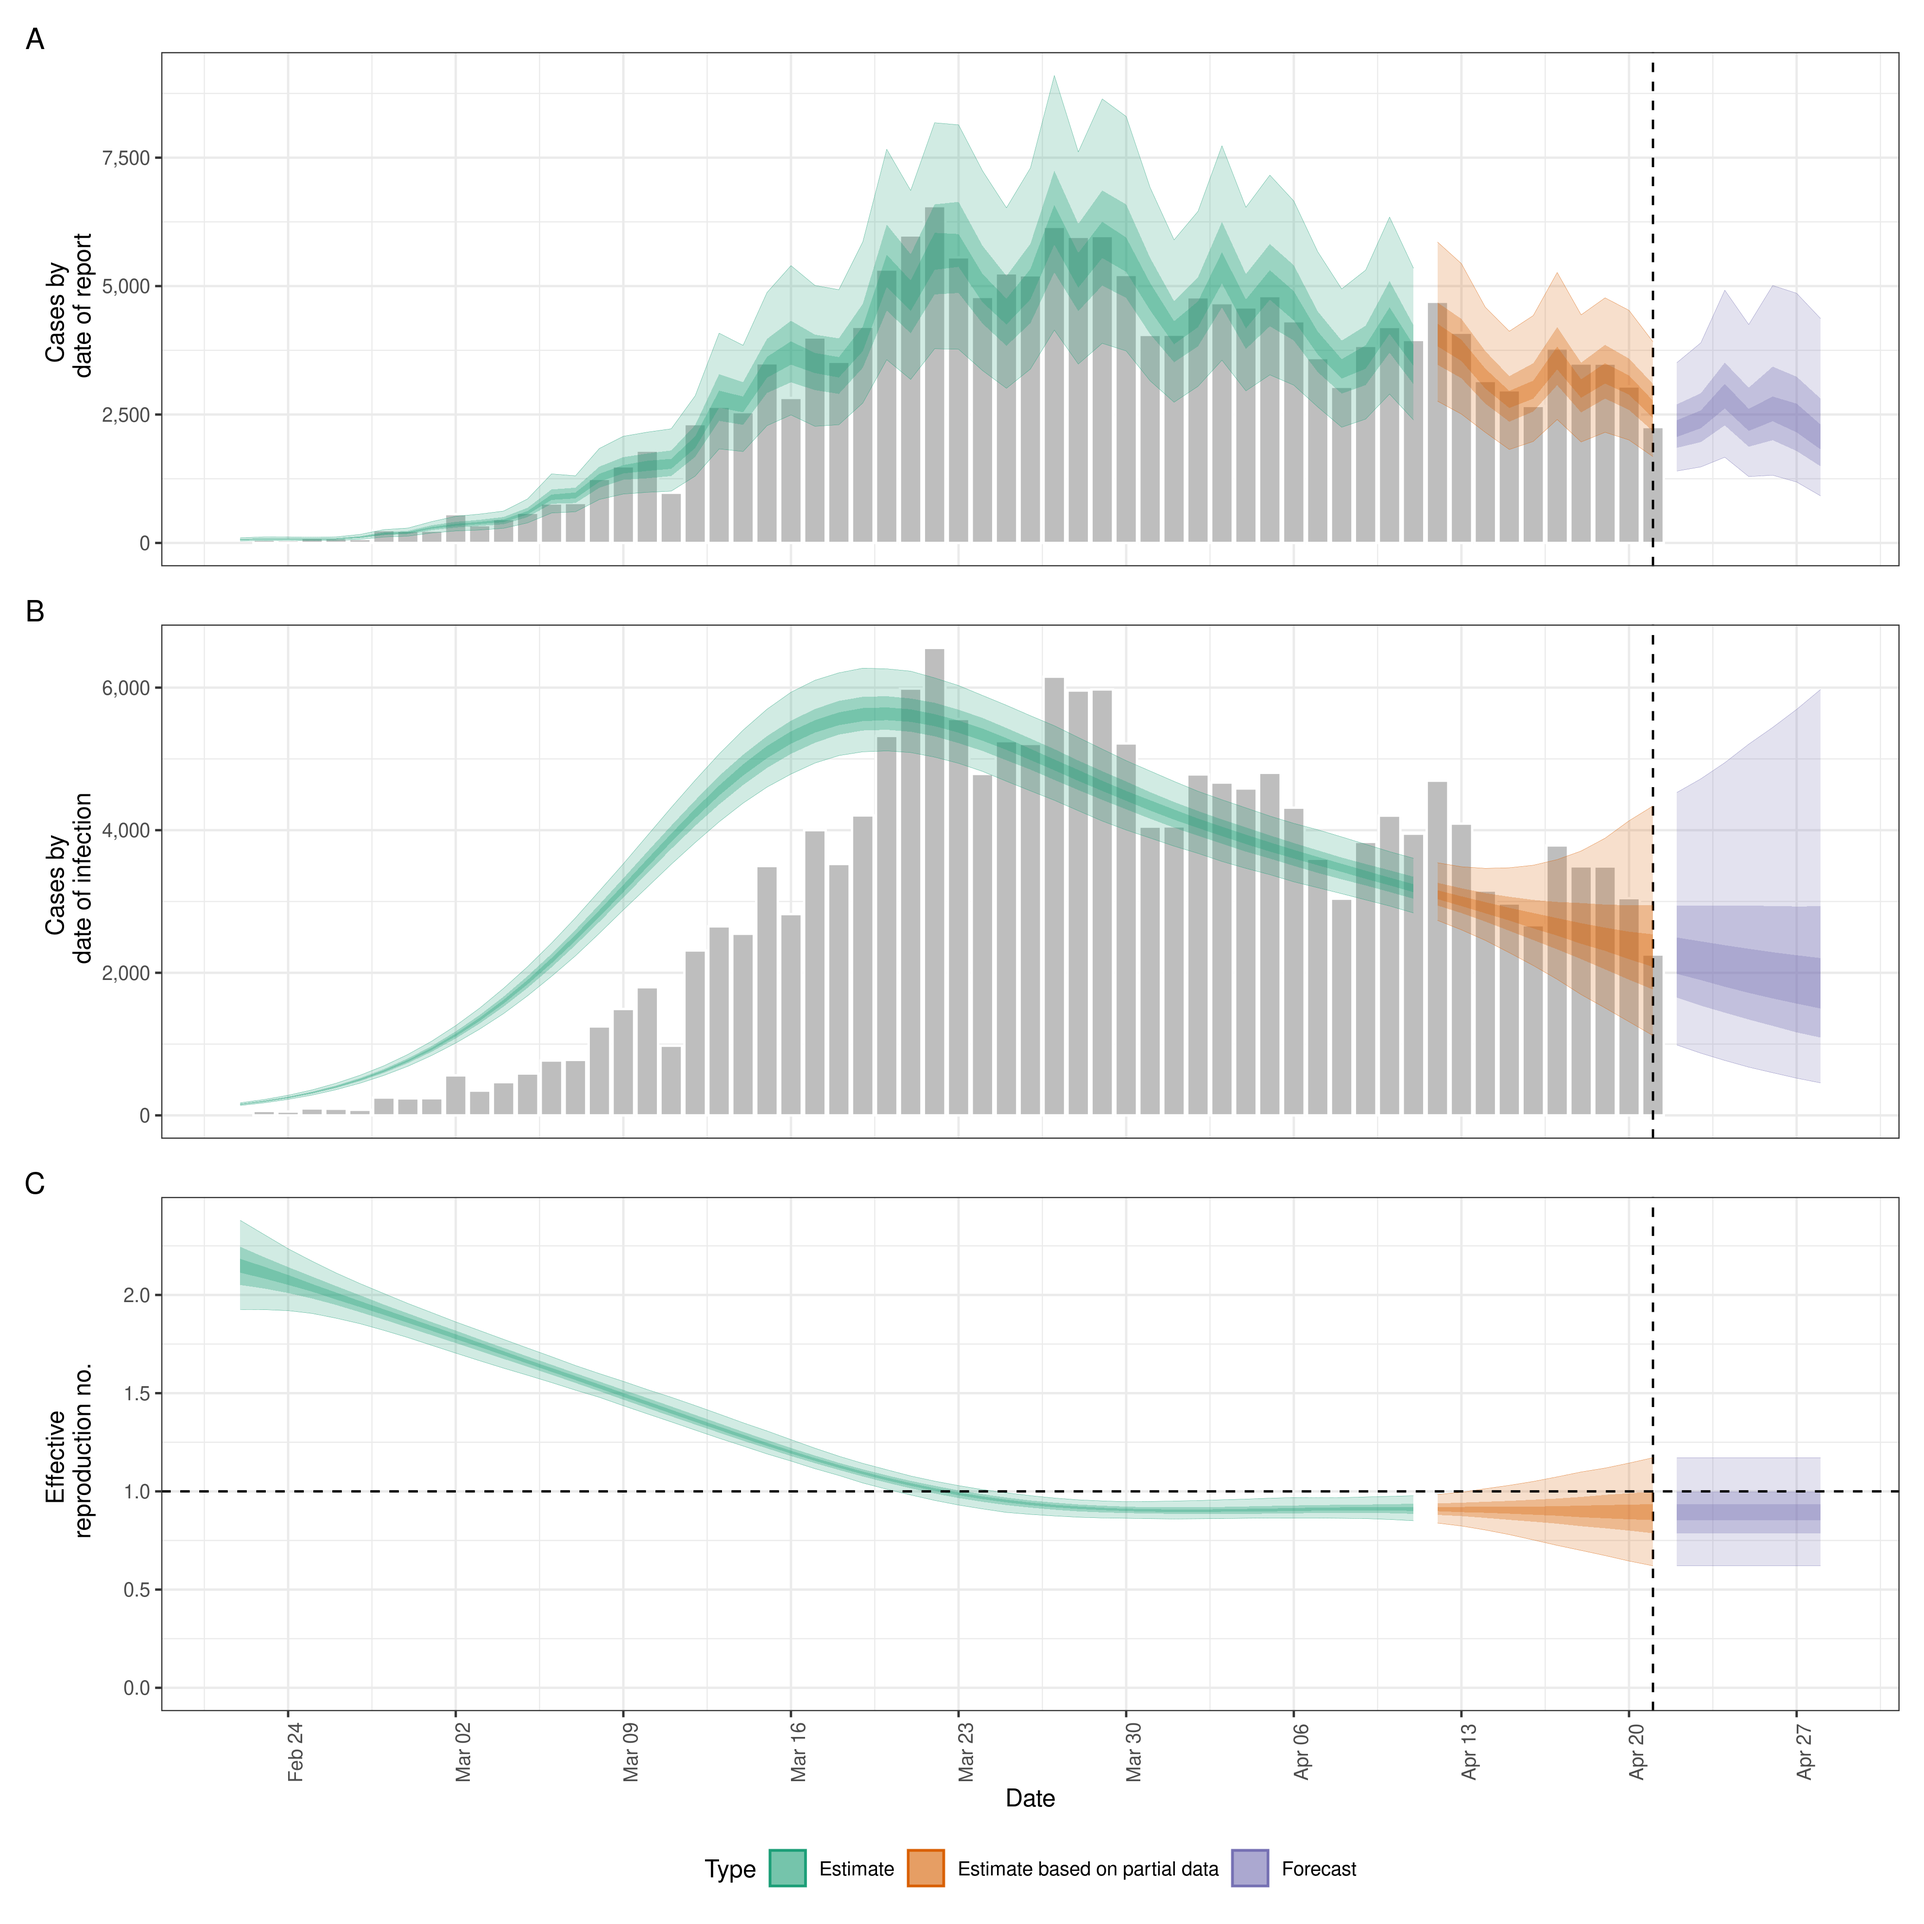
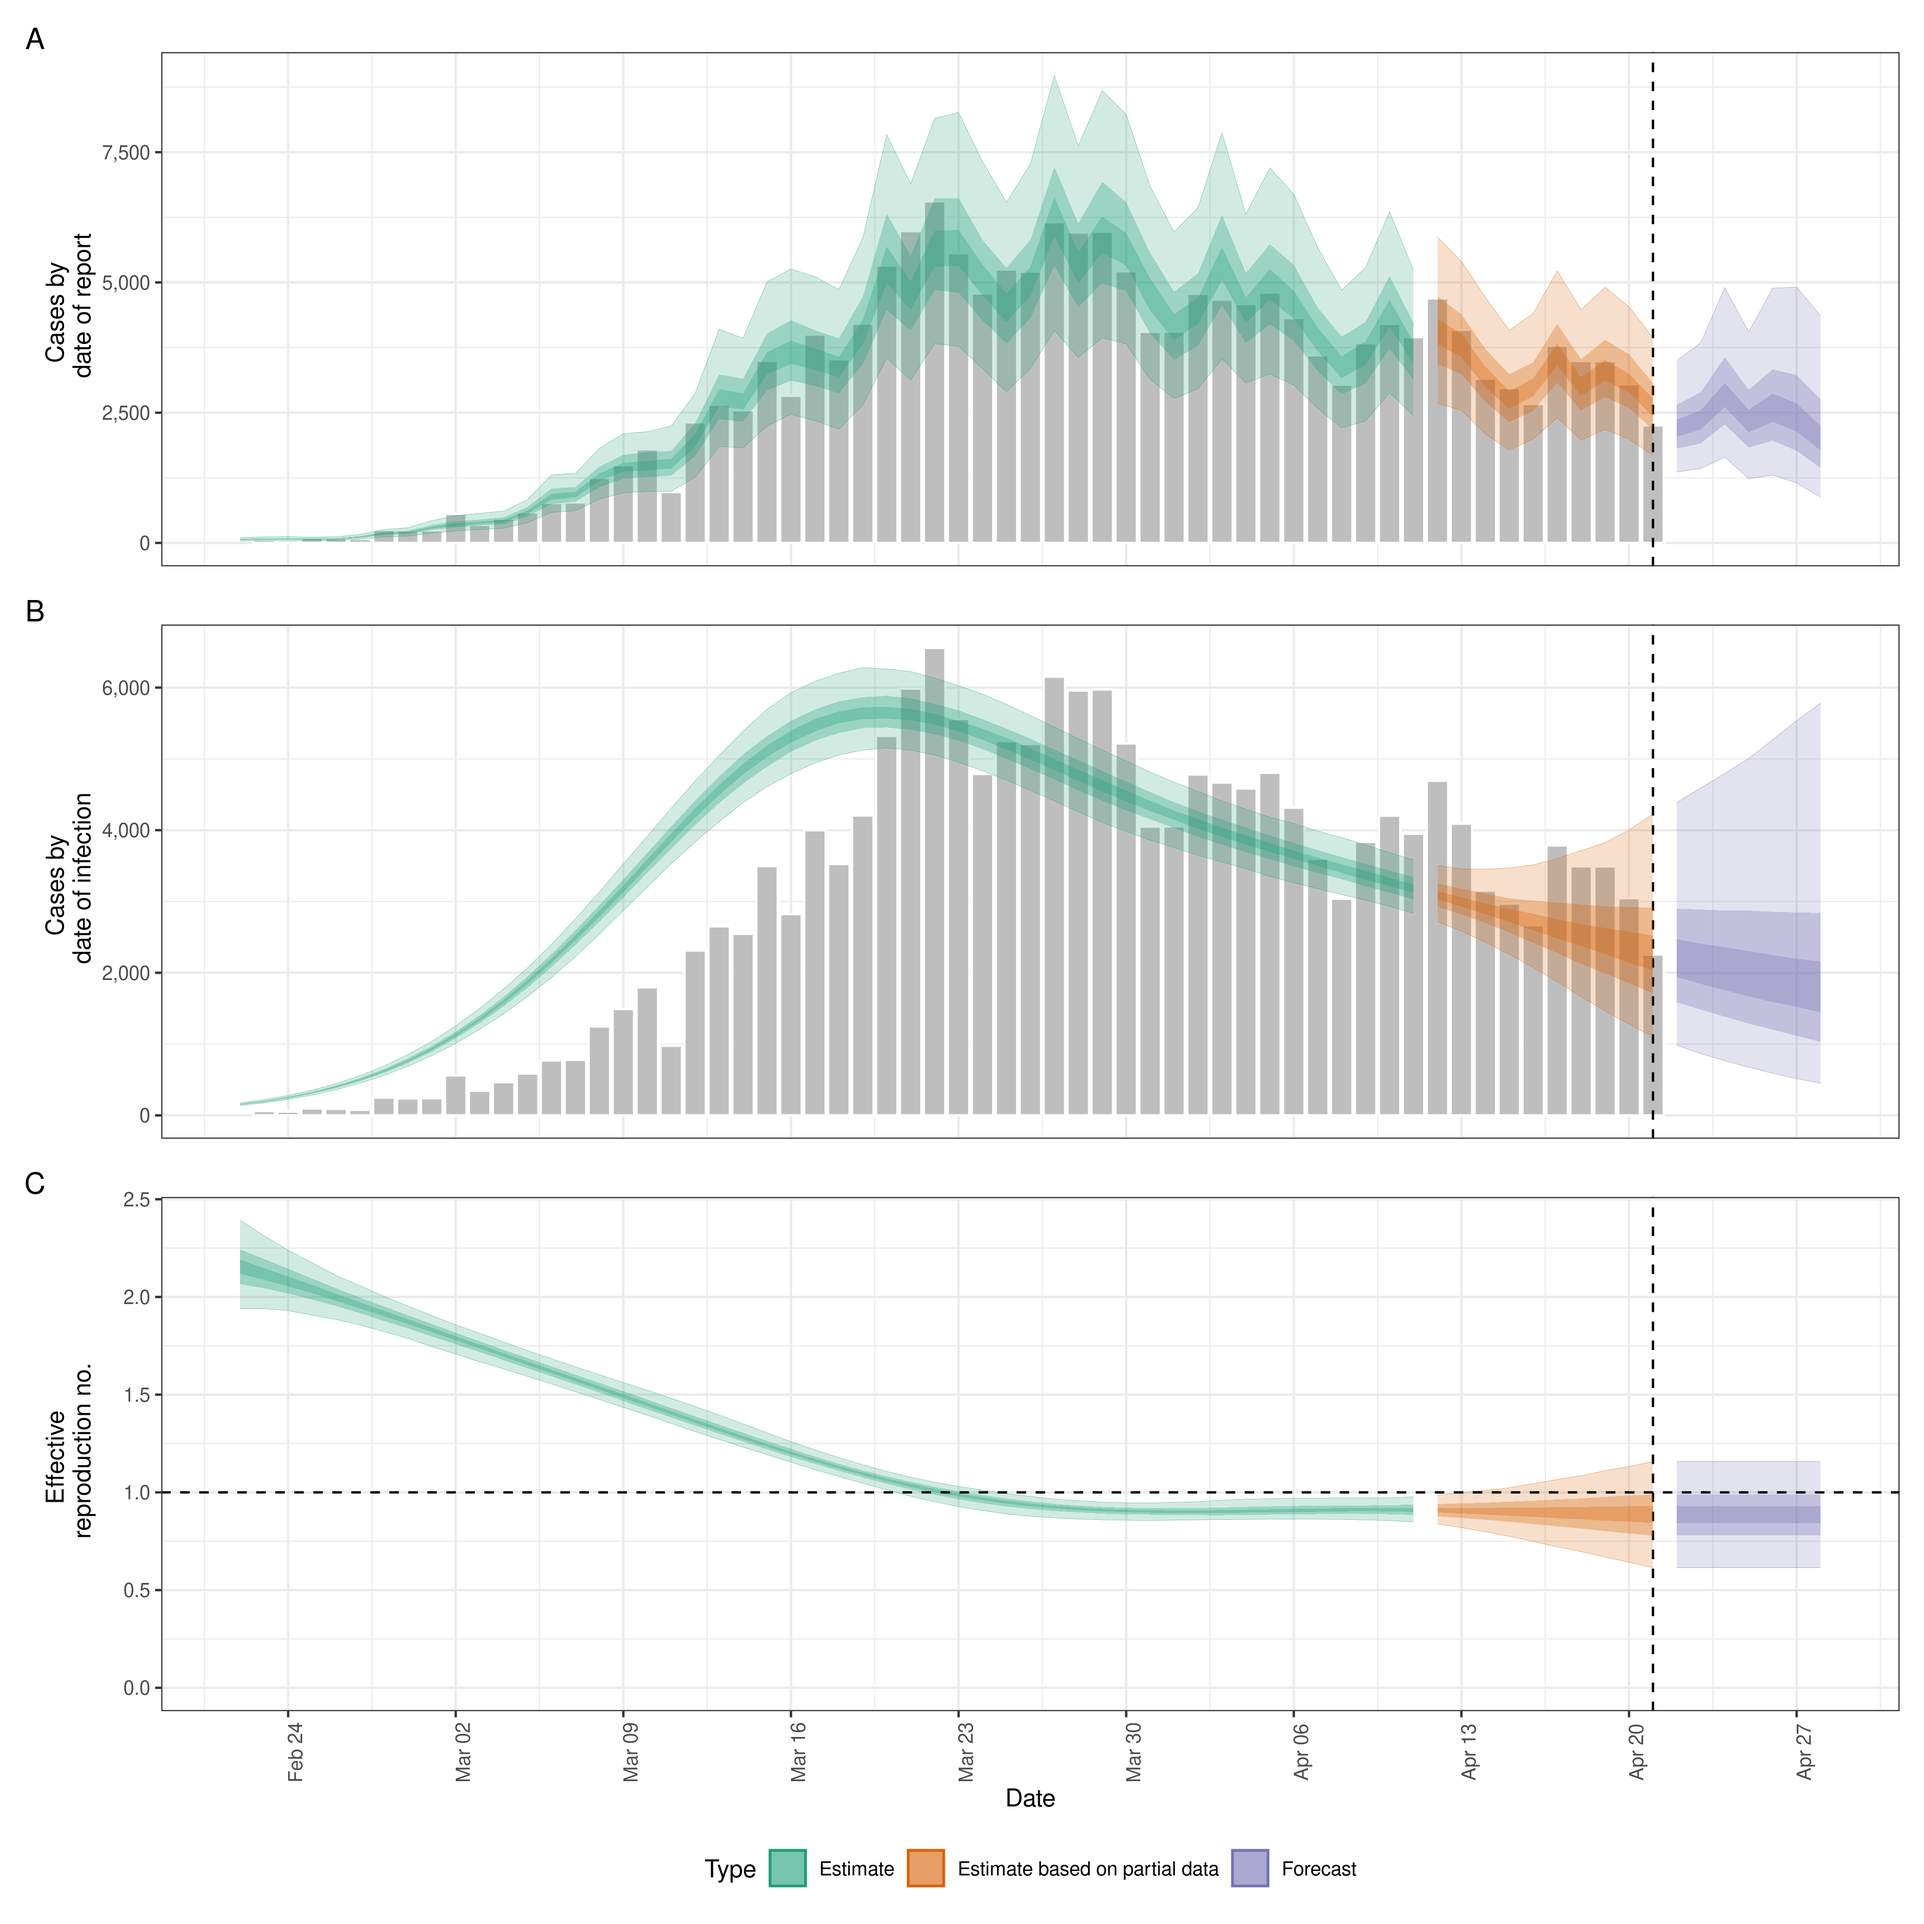
Automatic readme update

diff --git a/README.md b/README.md
@@ -243,13 +243,13 @@ parameters at the latest date partially supported by data.
 knitr::kable(summary(estimates))
 ```
 
-| measure                               | estimate              |
-|:--------------------------------------|:----------------------|
-| New confirmed cases by infection date | 2294 (1118 – 4339)    |
-| Expected change in daily cases        | Likely decreasing     |
-| Effective reproduction no.            | 0.89 (0.62 – 1.2)     |
-| Rate of growth                        | -0.025 (-0.1 – 0.038) |
-| Doubling/halving time (days)          | -27 (18 – -6.6)       |
+| measure                               | estimate               |
+|:--------------------------------------|:-----------------------|
+| New confirmed cases by infection date | 2257 (1103 – 4226)     |
+| Expected change in daily cases        | Likely decreasing      |
+| Effective reproduction no.            | 0.89 (0.61 – 1.2)      |
+| Rate of growth                        | -0.028 (-0.11 – 0.035) |
+| Doubling/halving time (days)          | -25 (20 – -6.5)        |
 
 Summarised parameter estimates can also easily be returned, either
 filtered for a single parameter or for all parameters.
@@ -257,19 +257,19 @@ filtered for a single parameter or for all parameters.
 ``` r
 head(summary(estimates, type = "parameters", params = "R"))
 #>          date variable strat     type   median     mean         sd lower_90
-#> 1: 2020-02-22        R    NA estimate 2.150510 2.151031 0.14119096 1.925555
-#> 2: 2020-02-23        R    NA estimate 2.113039 2.114405 0.11694511 1.925179
-#> 3: 2020-02-24        R    NA estimate 2.075144 2.076203 0.09706633 1.919932
-#> 4: 2020-02-25        R    NA estimate 2.035771 2.036649 0.08142775 1.905762
-#> 5: 2020-02-26        R    NA estimate 1.994923 1.996010 0.06978343 1.881665
-#> 6: 2020-02-27        R    NA estimate 1.951974 1.954575 0.06169721 1.853661
+#> 1: 2020-02-22        R    NA estimate 2.157075 2.158130 0.13780343 1.939378
+#> 2: 2020-02-23        R    NA estimate 2.118203 2.120258 0.11327513 1.939902
+#> 3: 2020-02-24        R    NA estimate 2.080266 2.080967 0.09395287 1.930158
+#> 4: 2020-02-25        R    NA estimate 2.040108 2.040461 0.07931071 1.906574
+#> 5: 2020-02-26        R    NA estimate 1.999733 1.998992 0.06861478 1.884677
+#> 6: 2020-02-27        R    NA estimate 1.957576 1.956843 0.06104775 1.856504
 #>    lower_50 lower_20 upper_20 upper_50 upper_90
-#> 1: 2.050750 2.113483 2.183631 2.245148 2.379931
-#> 2: 2.032817 2.083743 2.143829 2.192236 2.307371
-#> 3: 2.009735 2.051237 2.101651 2.141804 2.235092
-#> 4: 1.981902 2.016831 2.055957 2.093436 2.171809
-#> 5: 1.949209 1.976791 2.012477 2.045381 2.112014
-#> 6: 1.912331 1.938310 1.968822 1.998513 2.057857
+#> 1: 2.064872 2.119213 2.190467 2.242388 2.392104
+#> 2: 2.044301 2.088105 2.146766 2.194177 2.312177
+#> 3: 2.017630 2.053934 2.104694 2.144963 2.239380
+#> 4: 1.986598 2.019517 2.061337 2.093727 2.174363
+#> 5: 1.953712 1.980580 2.016398 2.043921 2.110641
+#> 6: 1.917320 1.941335 1.972276 1.997426 2.057059
 ```
 
 Reported cases are returned in a separate data frame in order to
@@ -278,19 +278,19 @@ streamline the reporting of forecasts and for model evaluation.
 ``` r
 head(summary(estimates, output = "estimated_reported_cases"))
 #>          date  type median     mean       sd lower_90 lower_50 lower_20
-#> 1: 2020-02-22 gp_rt     65  66.6800 18.39159       40       53       61
-#> 2: 2020-02-23 gp_rt     76  78.6355 21.87244       47       63       72
-#> 3: 2020-02-24 gp_rt     76  78.6180 21.21672       48       64       71
-#> 4: 2020-02-25 gp_rt     73  75.3050 20.23234       46       61       69
-#> 5: 2020-02-26 gp_rt     79  80.6290 21.44951       50       66       73
-#> 6: 2020-02-27 gp_rt    111 113.8485 29.33015       70       94      104
+#> 1: 2020-02-22 gp_rt     64  66.4585 18.53537    39.00       53       60
+#> 2: 2020-02-23 gp_rt     76  78.6990 21.22846    47.95       64       71
+#> 3: 2020-02-24 gp_rt     76  78.6600 21.61141    48.00       63       71
+#> 4: 2020-02-25 gp_rt     73  75.3330 20.61714    45.00       61       68
+#> 5: 2020-02-26 gp_rt     78  79.8925 22.08329    47.00       65       73
+#> 6: 2020-02-27 gp_rt    111 113.7815 28.68512    71.00       94      104
 #>    upper_20 upper_50 upper_90
-#> 1:       70       78   100.05
-#> 2:       82       92   118.00
-#> 3:       81       91   117.00
-#> 4:       78       88   111.00
-#> 5:       84       94   118.00
-#> 6:      118      132   166.00
+#> 1:       70       78   100.00
+#> 2:       82       91   117.00
+#> 3:       82       91   119.05
+#> 4:       78       88   113.00
+#> 5:       83       93   118.00
+#> 6:      118      130   163.00
 ```
 
 A range of plots are returned (with the single summary plot shown
@@ -339,19 +339,19 @@ estimates <- regional_epinow(
   gp = NULL,
   stan = stan_opts(cores = 4, warmup = 250, samples = 1000)
 )
-#> INFO [2023-04-28 09:51:58] Producing following optional outputs: regions, summary, samples, plots, latest
-#> INFO [2023-04-28 09:51:58] Reporting estimates using data up to: 2020-04-21
-#> INFO [2023-04-28 09:51:58] No target directory specified so returning output
-#> INFO [2023-04-28 09:51:58] Producing estimates for: testland, realland
-#> INFO [2023-04-28 09:51:58] Regions excluded: none
-#> INFO [2023-04-28 09:52:42] Completed estimates for: testland
-#> INFO [2023-04-28 09:53:22] Completed estimates for: realland
-#> INFO [2023-04-28 09:53:22] Completed regional estimates
-#> INFO [2023-04-28 09:53:22] Regions with estimates: 2
-#> INFO [2023-04-28 09:53:22] Regions with runtime errors: 0
-#> INFO [2023-04-28 09:53:22] Producing summary
-#> INFO [2023-04-28 09:53:22] No summary directory specified so returning summary output
-#> INFO [2023-04-28 09:53:23] No target directory specified so returning timings
+#> INFO [2023-05-02 10:40:17] Producing following optional outputs: regions, summary, samples, plots, latest
+#> INFO [2023-05-02 10:40:17] Reporting estimates using data up to: 2020-04-21
+#> INFO [2023-05-02 10:40:17] No target directory specified so returning output
+#> INFO [2023-05-02 10:40:17] Producing estimates for: testland, realland
+#> INFO [2023-05-02 10:40:17] Regions excluded: none
+#> INFO [2023-05-02 10:40:58] Completed estimates for: testland
+#> INFO [2023-05-02 10:41:36] Completed estimates for: realland
+#> INFO [2023-05-02 10:41:36] Completed regional estimates
+#> INFO [2023-05-02 10:41:36] Regions with estimates: 2
+#> INFO [2023-05-02 10:41:36] Regions with runtime errors: 0
+#> INFO [2023-05-02 10:41:36] Producing summary
+#> INFO [2023-05-02 10:41:36] No summary directory specified so returning summary output
+#> INFO [2023-05-02 10:41:37] No target directory specified so returning timings
 ```
 
 Results from each region are stored in a `regional` list with across
@@ -376,8 +376,8 @@ knitr::kable(estimates$summary$summarised_results$table)
 
 | Region   | New confirmed cases by infection date | Expected change in daily cases | Effective reproduction no. | Rate of growth          | Doubling/halving time (days) |
 |:---------|:--------------------------------------|:-------------------------------|:---------------------------|:------------------------|:-----------------------------|
-| realland | 2148 (1142 – 4224)                    | Likely decreasing              | 0.87 (0.64 – 1.2)          | -0.033 (-0.098 – 0.034) | -21 (20 – -7.1)              |
-| testland | 2115 (1225 – 4174)                    | Likely decreasing              | 0.86 (0.67 – 1.2)          | -0.034 (-0.089 – 0.035) | -21 (20 – -7.8)              |
+| realland | 2164 (1089 – 4155)                    | Likely decreasing              | 0.87 (0.62 – 1.1)          | -0.031 (-0.1 – 0.033)   | -22 (21 – -6.7)              |
+| testland | 2144 (1167 – 4067)                    | Likely decreasing              | 0.87 (0.64 – 1.1)          | -0.032 (-0.097 – 0.032) | -22 (21 – -7.2)              |
 
 A range of plots are again returned (with the single summary plot shown
 below).
